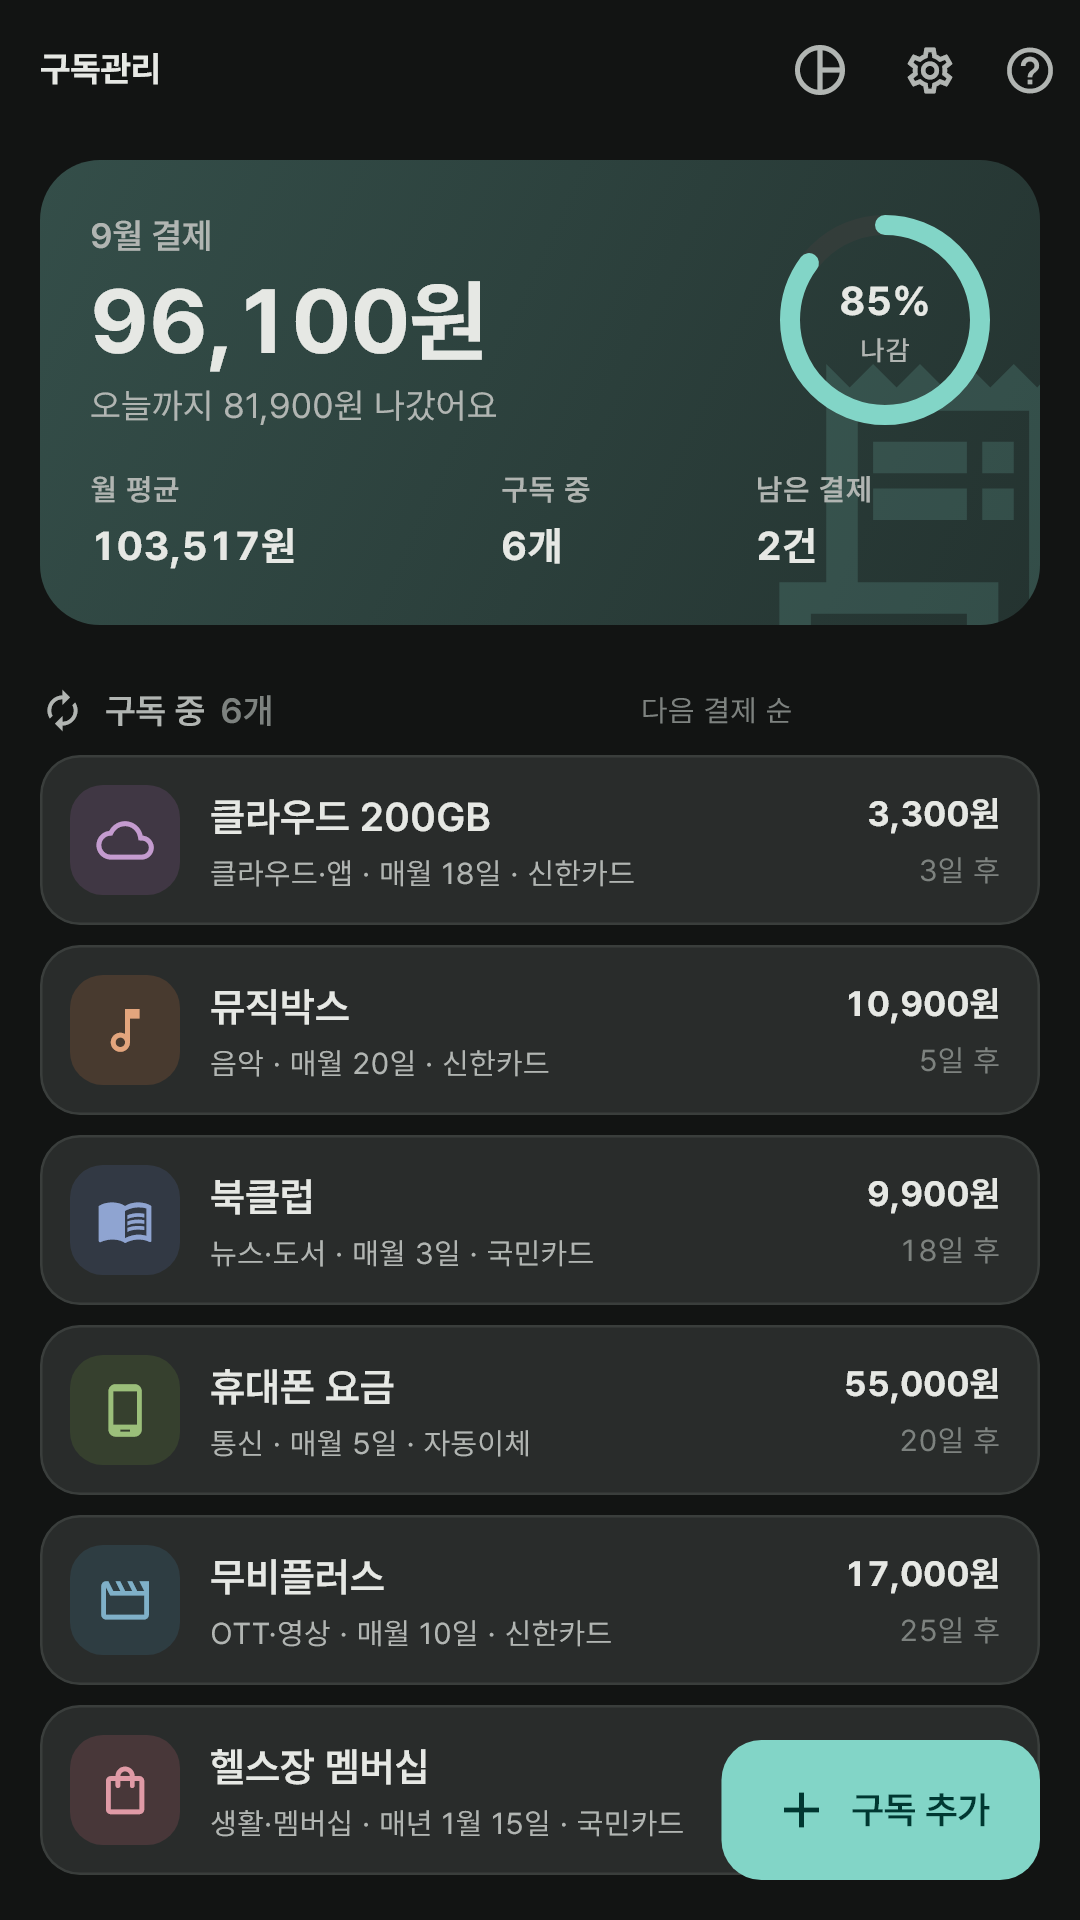
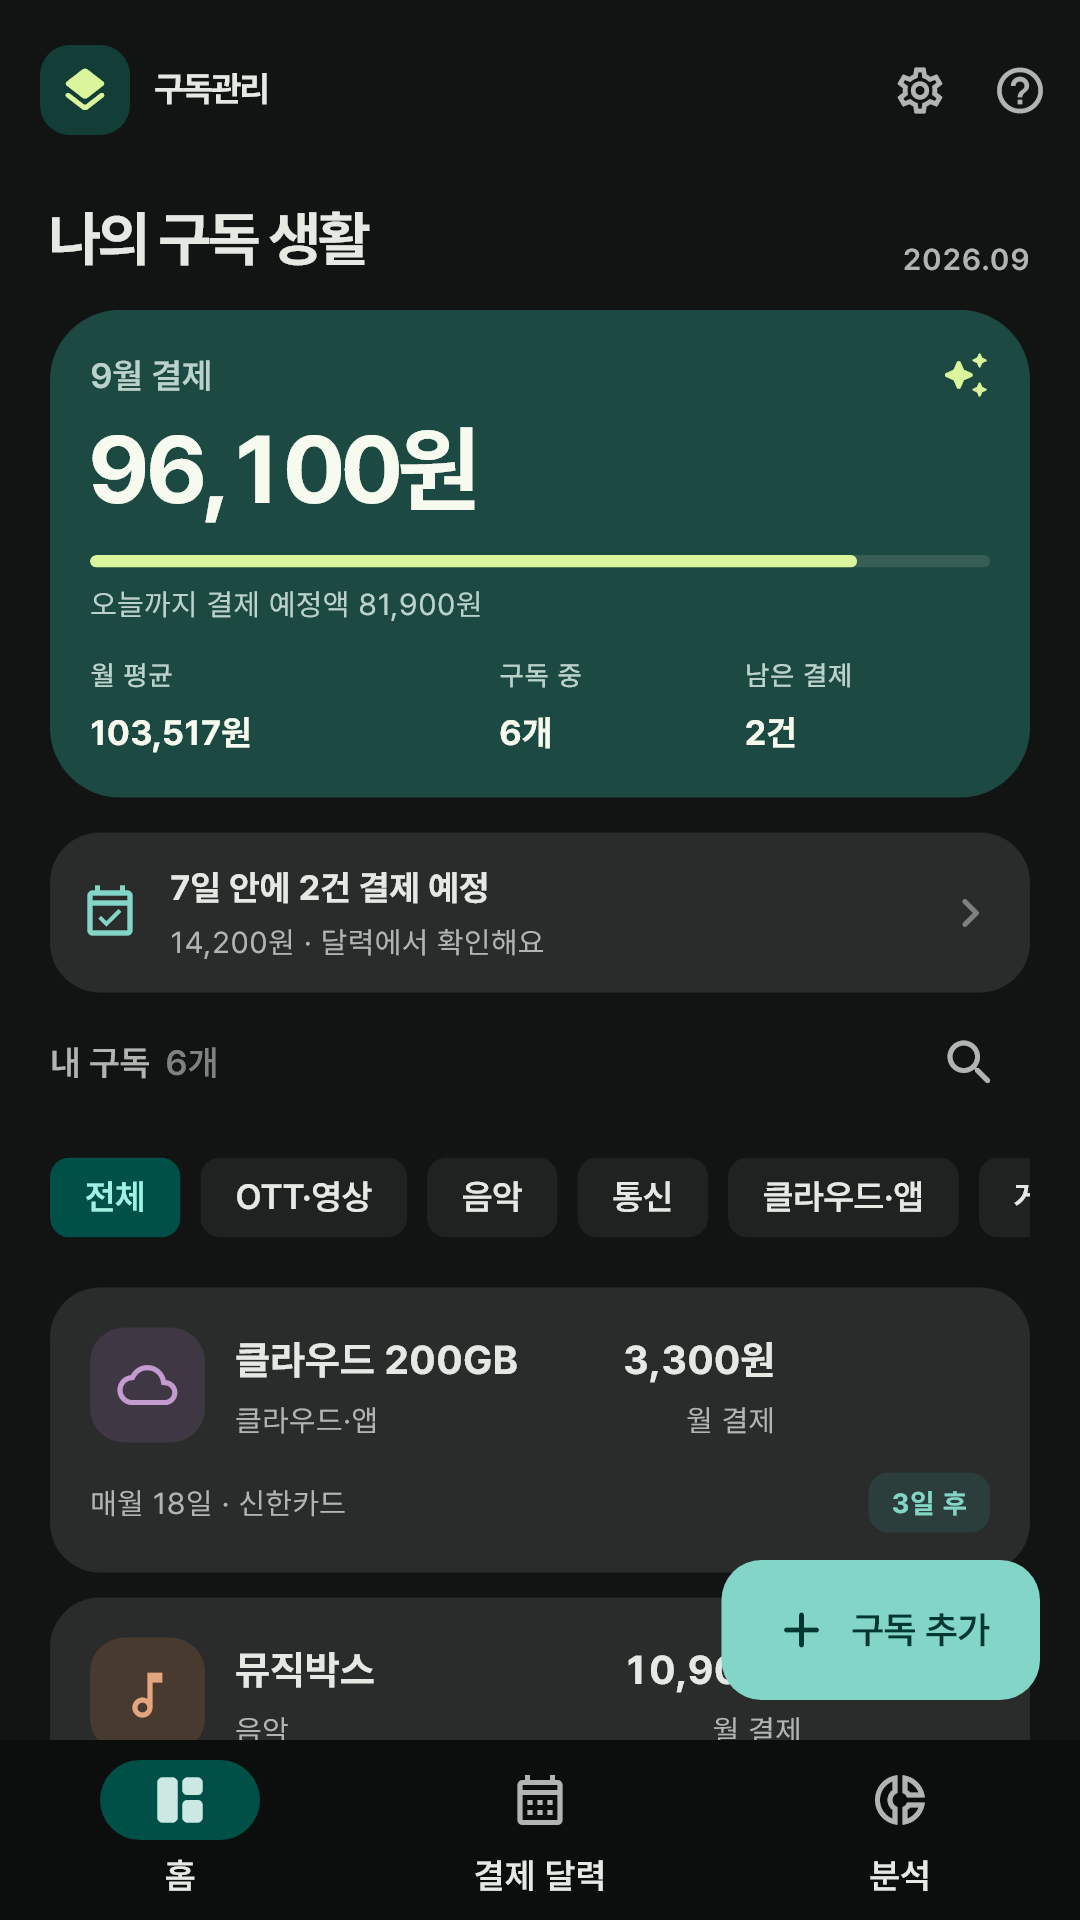
구독관리 소개 페이지: 개편한 화면 스크린샷과 문구 반영

diff --git a/my_subscription/index.html b/my_subscription/index.html
@@ -13,18 +13,19 @@
 <nav><a href="../"><picture><source srcset="../brand/logo_dark.png" media="(prefers-color-scheme:dark)"><img src="../brand/logo.png" alt="앱이소"></picture></a><a href="privacy.html">개인정보처리방침</a></nav>
 <section class="hero"><div><span class="status">준비 중 · Android</span><h1>매달 나가는 돈,<br>한눈에</h1><p class="lead">OTT와 음악, 통신 요금과 클라우드까지.<br>어디에 얼마를 내는지 적어 두고 다음 결제일을 챙겨요.</p><div class="facts"><span>가입 없이</span><span>광고 없이</span><span>오프라인으로</span></div></div><img class="icon" src="icon-512.png" alt="앱이소 구독관리 아이콘"></section>
 <section class="features">
-<article><h2>이번 달에 얼마가 나가나요</h2><p>이번 달에 실제로 결제되는 금액을 맨 위 면에서 크게 확인하고, 오늘까지 얼마나 나갔는지는 고리로 봐요. 매년 내는 구독은 12로 나눠 월 평균에 담아, 한 달에 얼마를 쓰는지 고르게 보여줘요.</p></article>
-<article><h2>다음 결제일이 가까운 순서로</h2><p>구독 카드는 다음에 결제될 날짜가 빠른 것부터 놓여요. "3일 후"처럼 남은 날짜를 적어 두고 오늘 결제되는 것은 색으로 강조해, 무엇이 곧 빠져나갈지 바로 알 수 있어요.</p></article>
+<article><h2>이번 달에 얼마가 나가나요</h2><p>짙은 청록색 요약 카드에서 이번 달 결제 예정액을 크게 확인하고, 오늘까지 결제일이 지난 비율을 진행 막대로 봐요. 매년 내는 구독은 12로 나눠 월 평균에 담아, 한 달에 얼마를 쓰는지 고르게 보여줘요.</p></article>
+<article><h2>홈 · 결제 달력 · 분석</h2><p>달력으로 한 달의 결제일을 미리 확인하고, 날짜를 눌러 그날의 구독을 찾아요. 홈에서는 이름과 결제 수단으로 검색하고 유형별로 모아 볼 수 있어요.</p></article>
 <article><h2>어디에 얼마를 쓰는지 그림으로</h2><p>유형별 비중을 도넛으로, 열두 달 흐름을 막대로 봐요. 지난달보다 얼마나 늘고 줄었는지도 한 줄로 알려줘요. 월별과 연별을 바꿔 보고, 유형 대신 결제 수단으로 묶어 어느 카드에서 나가는지도 확인해요.</p></article>
 <article><h2>적는 것은 이름뿐이에요</h2><p>결제 수단은 "신한카드"처럼 직접 붙이는 이름일 뿐이에요. 카드 번호도, 계좌 번호도, 비밀번호도 묻지 않고 저장하지 않아요.</p></article>
 </section>
 <h2>앱 안에서는 이렇게 보여요</h2>
 <section class="shots">
-<figure><img src="shots/01-home.png" alt="이번 달 결제액과 나간 비율 고리, 다음 결제일 순 구독 카드" loading="lazy"><figcaption>이번 달 결제와 나간 비율을 먼저 봐요.</figcaption></figure>
+<figure><img src="shots/01-home.png" alt="청록색 결제 요약과 유형 필터, 다음 결제일 순 구독 카드" loading="lazy"><figcaption>이번 달 결제 예정액을 한눈에 봐요.</figcaption></figure>
 <figure><img src="shots/02-stats-month.png" alt="유형별 비중 도넛과 월별 결제 막대" loading="lazy"><figcaption>어디에 얼마를 쓰는지 그림으로.</figcaption></figure>
-<figure><img src="shots/03-stats-year.png" alt="한 해 전체의 유형별 결제 비중" loading="lazy"><figcaption>한 해를 통째로 돌아봐요.</figcaption></figure>
-<figure><img src="shots/04-editor.png" alt="유형 색 미리보기 면 아래에 이름과 금액, 결제 주기와 결제일을 적는 편집 화면" loading="lazy"><figcaption>적는 대로 미리보기가 따라와요.</figcaption></figure>
+<figure><img src="shots/06-calendar.png" alt="날짜별 결제 일정과 유형별 색 점을 보여 주는 결제 달력" loading="lazy"><figcaption>한 달의 결제일을 미리 챙겨요.</figcaption></figure>
+<figure><img src="shots/04-editor.png" alt="유형 색 미리보기 면 아래에 이름과 금액, 결제 주기와 결제일을 적는 편집 화면" loading="lazy"><figcaption>미리보기를 보며 적고, 아래에서 바로 저장해요.</figcaption></figure>
 <figure><img src="shots/05-dark.png" alt="어두운 테마의 구독 목록" loading="lazy"><figcaption>어두운 화면도 편안하게.</figcaption></figure>
+<figure><img src="shots/07-welcome.png" alt="카드 일러스트와 첫 구독 등록 안내" loading="lazy"><figcaption>첫 구독부터 가볍게 시작해요.</figcaption></figure>
 </section>
 <p>화면의 구독은 기능을 설명하기 위한 예시예요. 앱에는 샘플 데이터가 들어 있지 않아요.</p>
 <div class="note"><strong>내 기록을 기기에 보관해요.</strong><p>구독 기록을 개발자 서버로 보내지 않아요. 앱 전용 기기 저장소에만 담고, 네트워크 권한을 요청하지 않아 인터넷이 없어도 전부 동작해요.</p><p>Android 자동 백업이 켜져 있어 사용자 본인의 Google 계정 백업에 포함될 수 있어요. 앱 제거 또는 데이터 삭제 시 기록도 사라질 수 있어요.</p></div>
